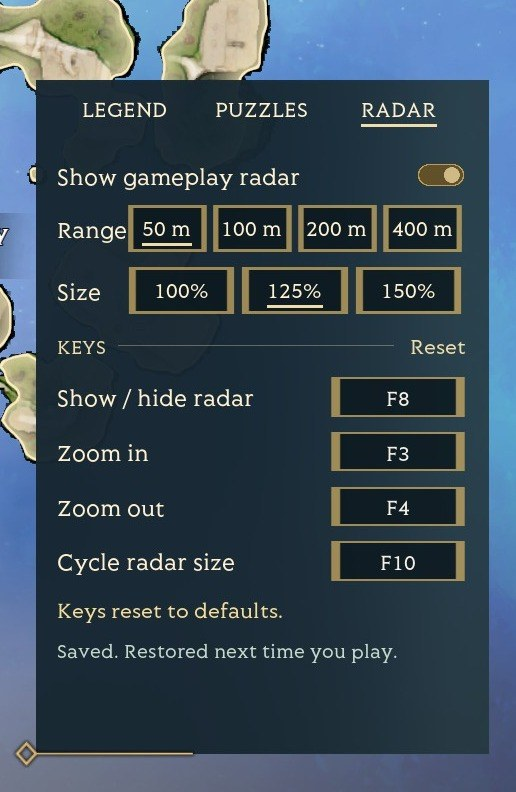
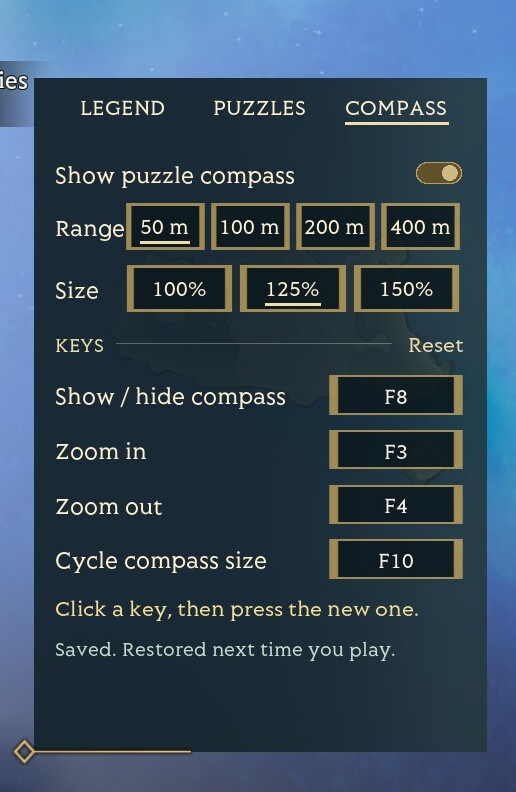
docs: retake the screenshots that showed the radar name
The Compass and Puzzles tabs, both map views and the labyrinth shot now
show the Puzzle Finder build, cropped to the same framing as before.
Alt text follows the new shots (407 left, Floor 2 of 2).

Changed region(s): [[0.0, 0.0, 1.0, 1.0], [0.6202, 0.0909, 0.6512, 0.1212]]

diff --git a/README.md b/README.md
@@ -84,9 +84,9 @@ more helpers are on the way.
 ### Crystal Labyrinths
 
 <div align="center">
-  <img src="docs/images/labyrinth-left.jpg" alt="Standing on the second floor of a Crystal Labyrinth among glass walls. In the lower-left corner the compass draws this floor's walls, with two reddish cells for trap doors, and reads Floor 2 of 3" width="600">
+  <img src="docs/images/labyrinth-left.jpg" alt="Standing on the second floor of a Crystal Labyrinth among glass walls. In the lower-left corner the compass draws this floor's walls, with two reddish cells for trap doors, and reads Crystal Labyrinth, Floor 2 of 2" width="600">
   <br>
-  <sub>Floor 2 of 3. The reddish cells on the compass are trap doors: holes in the floor you'd fall through.</sub>
+  <sub>Floor 2 of 2. The reddish cells on the compass are trap doors: holes in the floor you'd fall through.</sub>
 </div>
 
 Inside a Crystal Labyrinth the compass switches to a floor plan of the level you
@@ -173,7 +173,7 @@ choices, and the compass keys.
 
 | The Puzzles tab | The Compass tab |
 | :---: | :---: |
-| <img src="docs/images/puzzles-tab.jpg" alt="The Puzzles tab for Verdant Glen: 403 left in this zone, a search box, the puzzle types with solved counts and three of them ticked, and the switches below" width="300"> | <img src="docs/images/compass-tab.jpg" alt="The Compass tab: Show puzzle compass, range and size choices, and the Keys section with F8, F3, F4 and F10 and a Reset button" width="300"> |
+| <img src="docs/images/puzzles-tab.jpg" alt="The Puzzles tab for Verdant Glen: 407 left in this zone, a search box, the puzzle types with solved counts and three of them ticked, and the switches below" width="300"> | <img src="docs/images/compass-tab.jpg" alt="The Compass tab: Show puzzle compass, range and size choices, and the Keys section with F8, F3, F4 and F10 and a Reset button" width="300"> |
 
 </div>
 
